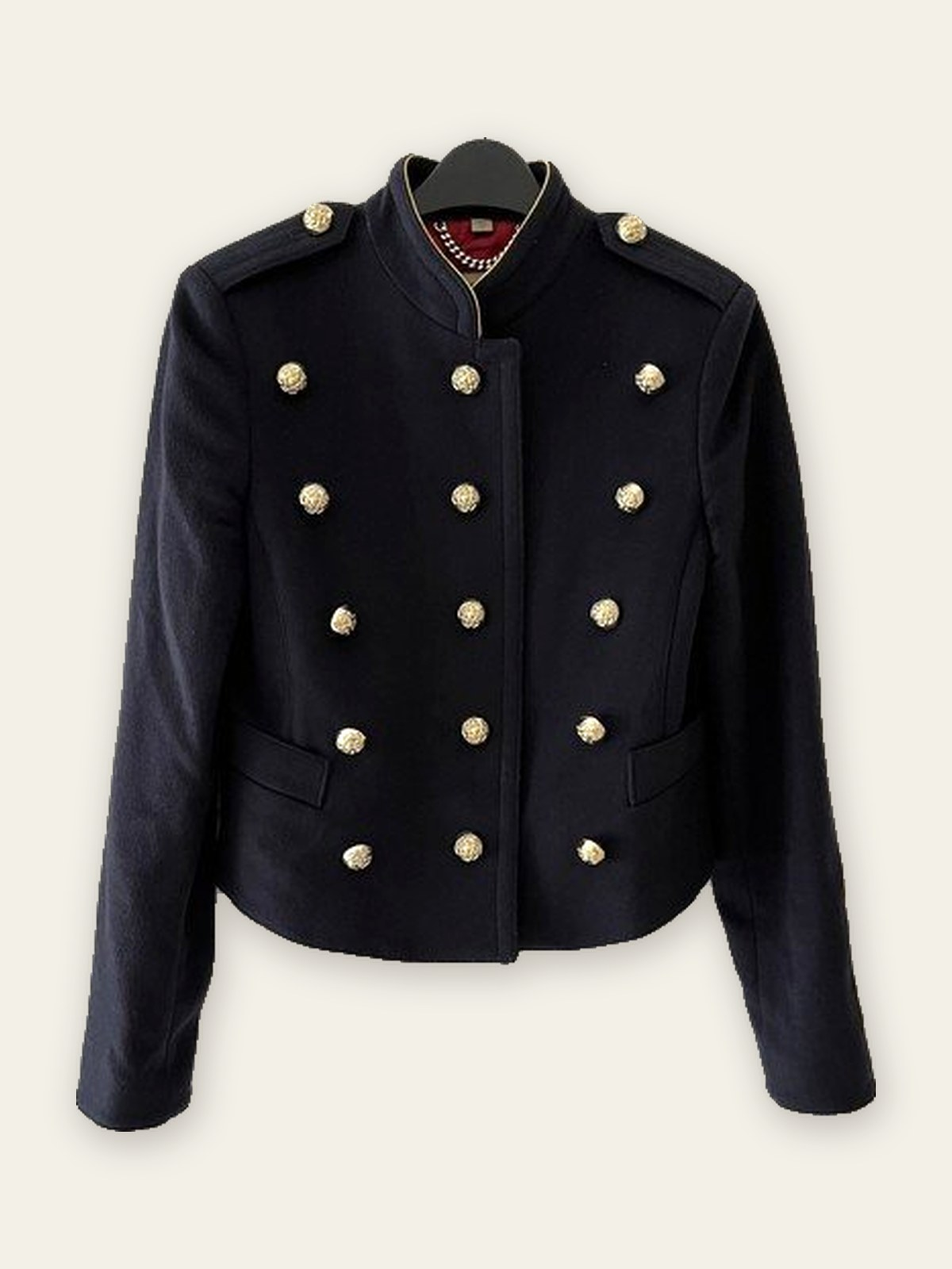
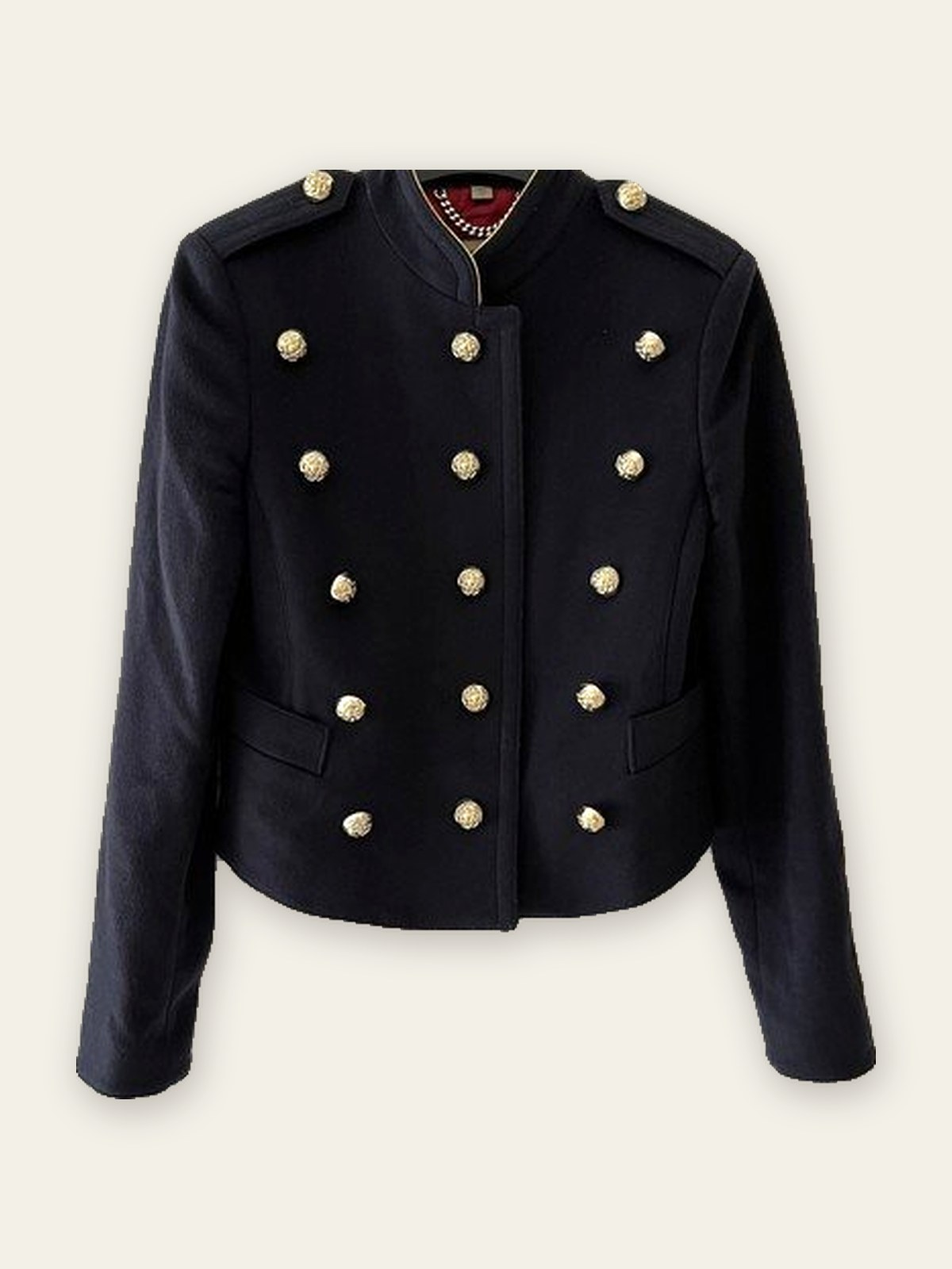
Chronicles as text lists, three essays retitled, hanger hooks removed
- Chronicle groups are now lists: title plus a deck naming the object,
  its origin and year, derived from the items that point to the article
- The three "副本" titles become 刺绣的两种权威 (c009), 当纹章换成商标
  (c012) and 二十五毫米的荣典 (c015); the group is labelled
  审美 · 工艺与挪用 and ordered c005, c002, c009, c012, c015
- The hanger hook above the shoulders is removed from r009, r012 and r014

Claude-Session: https://claude.ai/code/session_0146WwfpqSoST3wS5kAsYEcA

diff --git a/assets/data.js b/assets/data.js
@@ -44,26 +44,26 @@ const collection = {
   ],
   chronicles: [
     { id:"c005", group:"craft", title:"礼服的工艺制度剖析", image:"/images/regalia/r006_standard.jpg", image2:"/images/chronicles/c001b.jpg", image3:"/images/chronicles/c001c.jpg", image4:"/images/chronicles/c001d.jpg", imageLayout:"grid4", excerpt:"<strong>工艺</strong><br><br>这件1931年式法国陆军医官大礼服出自巴黎第八区Thorn。彼时该地区是法国军服定制业的核心门牌，客户以军官及外交官为主。面料为中厚挺括礼服毛呢，黑色，织物密度足以支撑直身廓形。单排9粒扣沿前襟垂直排列，扣面以黄铜镀金铸造，浮雕图案为权杖缠蛇外环月桂，赫尔墨斯权杖的医疗变体，每粒扣面均铸有兵种标识。<br><br>领部与袖口以深红丝绒包覆，切割边缘利落，与黑色毛呢的交界处收口无毛边。领片两侧各施一组金线手工刺绣：左侧橄榄枝，右侧蓟花，以管状金属丝构成，密度均匀，九十年后光泽与张力仍在。袖口丝绒之上，两道金色织带横贯，金线规整。内衬有多圈走线分散受力，是法国军服刺绣工艺的标准高输出。<br><br>整件礼服体现了法兰西制服美学的核心逻辑：以裁缝的精度代替装饰的堆砌，将布料、丝绒、金线与金属扣的材料层级压入严格的几何秩序，使礼服获得建筑与雕塑的同时感，它不是被穿着的，它是被构筑的。<br><br><strong>风格与制度含义</strong><br><br>黑色礼服毛呢配深红丝绒，是第三共和国时期法国军医系统礼服的标准配色。同期法国陆军礼服中，作战兵种多用双排扣，医官等技术兵种以单排扣与作战兵种的双排扣区隔。<br><br>9粒权杖缠蛇扣沿前襟从领口延伸至腰部。佩戴者站定，兵种、职级与机构归属即在视线接触中同时完成识别。" },
+    { id:"c002", group:"craft", title:"精品项链的设计逻辑", image:"/images/treasures/t001_standard.jpg", image2:"/images/chronicles/c002b.jpg", image3:"/images/chronicles/c002c_standard.jpg", image4:"/images/chronicles/c002d.jpg", imageLayout:"grid4", excerpt:"自上而下观赏这件 Florenza 项链。视线首先遇到的是巴洛克掐丝心形小吊坠：体量细小，却以立体爪托与涡卷细节预告了整串的主题和工艺密度。视线继续下移，花瓣形中心座以铸造掐丝构成对称的放射骨架，将四重构图秩序带入视野；马耳他十字主吊坠随即展开，以徽章形制确立整串的历史语义重心。圆形宝石与马眼形宝石分布于各节点，深琥珀色调回应了伊特鲁里亚复兴的色彩传统，在维持视觉密度的同时锁定了情绪基调。<br><br>这件项链的设计核心策略，是以历史权威性抵消材料的非贵重属性，同时采用两条手段：以数量与密度压制对材料本身的注意力，以历史风格引导观者关注设计而非材料本身。风格上，它是四套历史传统的有意识融合：文艺复兴风格复兴提供构图骨架，伊特鲁里亚复兴提供工艺语言，维多利亚情感传统引入浪漫向度，巴洛克复兴赋予戏剧张力，四套语汇各自承担不同的设计功能。<br><br>通过将心形处理为承载宝石的建筑构件而非独立的情感符号，庄严与浪漫两种原本相悖的气质在同一构图中取得平衡。铸造掐丝与模制玻璃石决定了工艺的上限，而在自身目标与工艺约束之内，此件以罕见的完成度实现了它的设计意图。" },
+    { id:"c009", group:"craft", title:"刺绣的两种权威", image:"/images/regalia/r009_standard.jpg", image2:"/images/chronicles/c009b.jpg", imageLayout:"side", excerpt:"<strong>工艺</strong><br><br>香槟色织物为底，表面覆盖逐粒手工缝缀的珍珠与水晶。<br><br>刺绣由两套语言交织：一套是菱形交叉网格，每个交点固定一颗仿珍珠或一粒爪镶水晶，密度恒定，形成视觉底层结构；一套是巴洛克涡卷，以珍珠簇与水晶带弯折出对称曲线，从领口向下展开，沿前襟与侧缘翻卷延伸。小珠构成连续曲线，大珠落在弧线顶端与转折处，充当视觉重音。前襟两道纵向镶边带是密度最高处，两套语言在此重叠。<br><br>数百粒珍珠与水晶，逐粒手工定位，是刺绣工坊的标准高输出方式。剪裁宽肩、收腰、直线下摆，长度过臀，丝绸全衬里。<br><br><strong>从制服到时装</strong><br><br>将这件巴尔曼与本收藏中的法国医官礼服并置，刺绣、廓形与构图几乎重合。区别在于：医官礼服上的金线编码军衔，扣面浮雕指明兵种，每种材料在制服条令中都有对应条目；巴尔曼外套上的珍珠和水晶不编码任何制度信息，只声明稀缺性和价格。相似视觉结构，两种完全不同的权威来源。<br><br>这并非巧合。巴尔曼品牌创始人在1945年战后开设工作室时，军装的结构化肩线和严整廓形直接进入了他的时装剪裁。此后，宽肩、收腰、密集刺绣始终是品牌基因的底层代码。<br><br>军礼服的视觉权威依附于穿着场合的制度约束，脱离典礼后，它只是一件做工复杂的衣服。高级时装找到的替代方案是价格、品牌叙事和秀场的媒体放大，把制度性的稀缺替换为市场性的稀缺。刺绣离开制服之后，等级的证明变成等级的消费。" },
+    { id:"c012", group:"craft", title:"当纹章换成商标", image:"/images/treasures/t023_standard.jpg", image2:"/images/chronicles/c012b_standard.jpg", image3:"/images/chronicles/c012c_standard.jpg", image4:"/images/chronicles/c012d_standard.jpg", imageLayout:"grid4", excerpt:"<strong>设计和工艺</strong><br><br>黄铜镀金。正面拱形纹章中，双头鹰与双C以浮雕铸出，十四道尖芒宽窄交替展开。背面遍布锤击纹，署香奈儿标记与年份。双头鹰取自香奈儿本人康朋街公寓镀金镜顶的俄罗斯帝国纹章，太阳放射形属1954年起发展的符号。1983年老佛爷入主首年，将这些品牌档案重铸为新配饰。<br><br><strong>国家勋章与时尚项链</strong><br><br>将这件香奈儿勋章项链与本收藏中的颈佩国家勋章并置。勋章各有不同珐琅、金属与铭文，但结构一致：从中心向外辐射的星芒，承载核心信息的圆形区域，颈部佩戴。然后是这条项链：镀金太阳放射形，中心双头鹰与双C标志。同样的几何秩序，但中心的国家纹章换成了商业标志。<br><br><strong>同一技术，两套委托</strong><br><br>制作此件的香奈儿巴黎工坊与制作本收藏中勋章工坊Arthus Bertrand共享法国金匠行会技艺。区别在于基体与去向：Arthus Bertrand以银施珐琅，成品进入国家授勋登记；香奈儿工坊以黄铜覆金，成品进入商业流通。<br><br>勋章的权威是排他性的：它声明佩戴者通过了国家筛选。时装珠宝的信号是包容性的：付款即可拥有。在二级市场上，镀金黄铜的仿制勋章与银质珐琅的真品勋章处于相近的价格区间。当虚构的勋章与真实的勋章同价，制度权威与商业权威之间的力量对比就已经发生了位移。" },
+    { id:"c015", group:"craft", title:"二十五毫米的荣典", image:"/images/treasures/t027_standard.jpg", image2:"/images/chronicles/c015b.jpg", image3:"/images/chronicles/c015c.jpg", image4:"/images/chronicles/c015d.jpg", imageLayout:"grid4", excerpt:"<strong>装配</strong><br><br>装配遵循资历：巴斯勋章创于1725年，居佩戴者右侧；不列颠帝国勋章创于1917年、1937年前为第I型，居其左。绶带纯紫无中央红条，声明文职级。横条背面冲印：Spink & Son Ld，17 & 18 Piccadilly，London. W.。此店1927年前后迁离皮卡迪利，十字章背面的乔治五世花押把年代收在1917至1927年间。<br><br><strong>二十五毫米上的完整</strong><br><br>卵形章高25毫米。「三合为一」三段拉丁铭文完整可读，三顶王冠珠饰粒粒分明，玫瑰、蓟与三叶草自一茎而出。十字章同高，淡蓝珐琅下压着羽状机刻底纹，中心不列颠尼亚持三叉戟坐于盾侧，外环「为上帝与帝国」清晰环绕。珐琅指示其等级为指挥官级或以上。俱未作简化，缩小的只有尺度。<br><br><strong>两种副本</strong><br><br>与本藏中的香奈儿勋章项链并置。那件保留了勋章的几何：放射尖芒、中心圆牌、颈部佩戴；圆心的国家纹章换成商业标志。它留下形式，舍去内容。<br><br>这对微缩勋章相反：铭文、纹样、底纹、背面花押，一项不减。在时尚复制勋章之前，制度已经订制了自己的缩小版。<br><br>烛光下的餐桌上，无人会俯身核对绶带有无红条，或辨读环上的拉丁文。这些细节服务于合规，而制度是唯一有资格审读它的观众。<br><br>时尚的副本被造出来，是为了被看见而不必被读懂。国家的副本被造出来，是为了被读懂而不必被看见。" },
     { id:"c003", group:"person", title:"礼服的战争与和平", image:"/images/regalia/r001_standard.jpg", image2:"/images/chronicles/c003b.jpg", image3:"/images/chronicles/c003c.jpg", image4:"/images/chronicles/c003d.jpg", imageLayout:"grid4", excerpt:"1982年5月4日，南大西洋，马岛战争进行中。谢菲尔德号驱逐舰被阿根廷超军旗战机的飞鱼导弹击中右舷，起火后浓烟灌满全舰，舰长索尔特下令弃舰，二十名船员罹难。六日后，舰体在拖往南乔治亚岛途中于大浪中沉没，是二战结束后第一艘被击沉的皇家海军战舰。<br><br>索尔特全名James Frederick Thomas George，1940年4月生。六个月后，其父索尔特少校随潜艇特里亚德号在塔兰托湾失踪，姓名刻于朴茨茅斯海军纪念碑。索尔特后来自愿投入这一使父亲丧命的兵种，历任芬鲸号艇长、北极星核潜艇决心号副长、核潜艇无畏号艇长；谢菲尔德号是他重返水面舰队后的指挥。<br><br>1982年6月1日，索尔特在朴茨茅斯的Moseley &amp; Pounsford定制了这件礼服外套。距沉舰不足三周，距阿根廷投降尚有两周，战争仍在进行。时间耐人寻味：议会与媒体的追责正在展开。这件礼服因此难以不与问责程序和身份修复相联；至少在象征层面，它是一名指挥官在舆论漩涡中重新确立自身位置的努力。<br><br>宽容随后到来。1982年7月，调查委员会向舰队总司令菲尔德豪斯上将报告，认定两名军官存在初步过失。菲尔德豪斯决定不付军法审判，据伍德沃德记述，理由是避免在举国欢腾中「造成不良的舆论气氛」。报告长期封存：2006年公开的摘要删去全部关键结论，完整文本直到2017年才解密。<br><br>索尔特未被追责。他随即出任另一艘42型驱逐舰南安普顿号舰长，1984年任北伍德舰队司令部作战助理参谋长，1986至1987年掌国防情报，晋升海军少将，1988至1990年在皇家国防研究学院，1990至1991年任助理海军参谋长，统筹海湾战争的皇家海军行动，1991年获巴斯勋位。退役后经商，2009年12月3日去世，享年六十九岁。<br><br>这件外套因此是一个问题的物质载体：荣耀在挫败之后，如何通过自身努力和制度宽容重新组织。" },
     { id:"c014", group:"person", title:"礼服的三十分钟", image:"/images/regalia/r004_standard.jpg", image2:"/images/chronicles/c014b.jpg", image3:"/images/chronicles/c014c.jpg", image4:"/images/chronicles/c014d.jpg", imageLayout:"grid4", excerpt:"1944年6月6日零时十八分，诺曼底贝努维尔。第三架霍萨滑翔机撞入运河与奥恩河之间的沼泽地，机身折断。机上载有第14排排长桑迪·史密斯中尉、二十八名士兵，以及此次突击行动唯一的随行军医、皇家陆军医疗军团上尉沃恩。沃恩被着陆撞击抛落在机头前方十五码处的泥地。他昏迷了约三十分钟。<br><br>桥在这三十分钟里被夺下。第25排排长布拉泽里奇颈部中弹，成为诺曼底登陆日死于敌火的第一名盟军士兵。沃恩苏醒后被带到他身边，只看了一眼便知无能为力。此后他在贡德雷咖啡馆设立救护所，以餐桌为手术台。<br><br>1965年，Alkit为沃恩少校定制了这件礼服。距那三十分钟已二十一年，衔级已由上尉而少校。1983年，历史学家斯蒂芬·安布罗斯为他录下两卷口述史，共三十五分钟，其中一节记述着陆后恢复意识的经过。1988年他出版回忆录，2000年2月去世。<br><br>这件礼服因此承载的是荣耀发生时的缺席：一名军医在他唯一被需要的半小时里躺在泥里。此后的军旅生涯，包括这件少校礼服所标记的衔级，都是在那半小时之后重新组织起来的。" },
+    { id:"c016", group:"person", title:"翻领上的礼序", image:"/images/treasures/t028_standard.jpg", image2:"/images/chronicles/c016b.jpg", image3:"/images/chronicles/c016c.jpg", image4:"/images/chronicles/c016d.jpg", imageLayout:"grid4", excerpt:"<strong>形制</strong><br><br>三股狐尾细链，两端各缀别针，其下悬五枚微缩章，不系绶带。8.0×3.5厘米，9.9克。<br><br>自左而右。学术棕榈为1955年前式样，两枝叶枝交叉成开口花环，茎上施紫珐琅，叶间以银托镶玫瑰切钻，间以红紫色小石；吊环两侧与正中亦各镶一钻。农业功绩勋章为金质，白珐琅六角星外绕金色叶环，中心为共和国侧像，蓝珐琅环铭「法兰西共和国」，背面铭「农业功绩 1883」。互助会奖章为银质，正面浮雕长袍女子与男子执手，署Roty；背面铭「劳动与社会保障部」，边缘打巴黎造币厂丰饶角与「1 ARGENT」。突尼斯荣耀勋章以切面银芒为底，红绿珐琅星芒相间，中心绿地托贝伊花押，上接镶石花结。末端为柬埔寨莫尼萨拉蓬勋章，镂空叶环环抱高脚杯与书卷，顶上无冠。<br><br>劳动与社会保障部1906年设立，此链的组成不早于此。五枚合乎佩戴礼序：本国勋章在前，本国奖章居中，外国勋章殿后。<br><br><strong>本国荣典</strong><br><br>第三共和国不再册封爵位。荣誉军团之外，各部另设荣典：教育有学术棕榈，农业有功绩勋章，互助会有奖章。<br><br><strong>借来的君主</strong><br><br>后两枚出自君主。突尼斯荣耀勋章由贝伊颁授，法国人的提名则出自法国总驻扎官。莫尼萨拉蓬1905年由柬埔寨国王西索瓦敕令设立，形制与学术棕榈极为接近，法国军官与在柬教师亦在受者之列。1896年，共和国将五种保护国勋章收为法国殖民勋章，此二者不在其列，始终是外国勋章。以功绩取代血统的共和国，在保护国仍借君主之名授予功绩。" },
     { id:"c010", group:"person", title:"晚宴礼服中的集体等级", image:"/images/regalia/r016.jpg",excerpt:"<strong>制度背景</strong><br><br>梅斯礼服源自十九世纪骑兵的短身厩衣。1845年前后，英国军官开始在晚宴中穿着齐腰短外套；1883年与1891年着装条令将其确立为专供军官晚宴的着装序列。下摆止于腰际，落座时不被压皱，也让马甲、衬衫与勋章完整显露。<br><br>梅斯礼服把袖环、领色与纹章压缩进一件短外套。它由军官自费向裁缝定制，不由军需发放，因此内标往往留有行号、年份与姓名。这批藏品之所以能追溯到具体的人，正源于这一制度安排。<br><br><strong>三件藏品、三段故事</strong><br><br>皇家海军少校（1945）。海军全套深蓝，只让袖环说话：一道窄环加一道卷环，少校。二战期间正式晚间着装暂停，1945年12月的这次定制，意味着穿着者从战争回到了需要晚宴与祝酒的世界。<br><br>皇家空军上校全套（1956）。空军1918年建军时借用海军的袖环体系，但不采卷环，1920年定下自己的蓝灰色。四道金环横贯袖口，明确为上校。全体军官统一色调，比陆军的兵种配色更为低调。马甲与腰封通常择一佩戴，此件两者俱在。<br><br>皇家炮兵少校（1992）。黑外套配猩红翻领与猩红马甲，猩红为炮兵标志色。炮兵军官在餐桌上另有一项特权：本团慢步进行曲奏响时不起立，因为火炮本身即为军旗。<br><br><strong>并肩聚集</strong><br><br>三件并置，可见同一形制在军种之间的变体逻辑。陆军单排扣敞开，各兵种以领色相区隔，等级写在肩章上；海军与空军各自统一颜色，对扣封闭，以袖环数目表示等级。<br><br>而餐桌另有一套规矩：席间不谈公务、政治与宗教。等级由布料一次说尽，随后便退出谈话。三位军官在同一场晚宴入座，十秒内即可辨识彼此的兵种、军衔与服役年限，此后整晚不必再提。等级与平等因此同时在场。" },
-    { id:"c009", group:"craft", title:"华服的时尚副本", image:"/images/regalia/r009_standard.jpg", image2:"/images/chronicles/c009b.jpg", imageLayout:"side", excerpt:"<strong>工艺</strong><br><br>香槟色织物为底，表面覆盖逐粒手工缝缀的珍珠与水晶。<br><br>刺绣由两套语言交织：一套是菱形交叉网格，每个交点固定一颗仿珍珠或一粒爪镶水晶，密度恒定，形成视觉底层结构；一套是巴洛克涡卷，以珍珠簇与水晶带弯折出对称曲线，从领口向下展开，沿前襟与侧缘翻卷延伸。小珠构成连续曲线，大珠落在弧线顶端与转折处，充当视觉重音。前襟两道纵向镶边带是密度最高处，两套语言在此重叠。<br><br>数百粒珍珠与水晶，逐粒手工定位，是刺绣工坊的标准高输出方式。剪裁宽肩、收腰、直线下摆，长度过臀，丝绸全衬里。<br><br><strong>从制服到时装</strong><br><br>将这件巴尔曼与本收藏中的法国医官礼服并置，刺绣、廓形与构图几乎重合。区别在于：医官礼服上的金线编码军衔，扣面浮雕指明兵种，每种材料在制服条令中都有对应条目；巴尔曼外套上的珍珠和水晶不编码任何制度信息，只声明稀缺性和价格。相似视觉结构，两种完全不同的权威来源。<br><br>这并非巧合。巴尔曼品牌创始人在1945年战后开设工作室时，军装的结构化肩线和严整廓形直接进入了他的时装剪裁。此后，宽肩、收腰、密集刺绣始终是品牌基因的底层代码。<br><br>军礼服的视觉权威依附于穿着场合的制度约束，脱离典礼后，它只是一件做工复杂的衣服。高级时装找到的替代方案是价格、品牌叙事和秀场的媒体放大，把制度性的稀缺替换为市场性的稀缺。刺绣离开制服之后，等级的证明变成等级的消费。" },
+    { id:"c008", group:"person", title:"孤立总统的外交签名", image:"/images/treasures/t016_standard.jpg", image2:"/images/chronicles/c008b.jpg", image3:"/images/chronicles/c008c.jpg", image4:"/images/chronicles/c008d.jpg", imageLayout:"grid4", excerpt:"1989年7月，奥地利递交了加入欧洲共同体的申请。七个月后，1990年2月8日，奥地利总统瓦尔德海姆正要签署证书，将荣誉功勋大金质勋章授予欧共体委员会礼宾司长布拉蒂尼。布拉蒂尼入职欧洲共同体已逾三十年，掌管欧委会高层礼仪事务。<br><br>此时，欧委会正在审议奥地利的入盟申请。签署证书的总统正处于外交孤立之中。瓦尔德海姆1986年当选后，二战德国军旅经历曝光。六年任期，西欧各国拒绝接待。授勋不需亲赴，证书从维也纳发出即可。这是孤立总统手中为数不多的外交工具。与此同时，柏林墙已倒塌，冷战中立国身份即将过时，入欧成为唯一通道。向布拉蒂尼授勋，即向布鲁塞尔释放信号：维也纳正在敲门。<br><br>一经签字，勋章将代替总统出场。这枚颈佩章主体为八尖马耳他十字，红色珐琅覆面，金缘勾线，上叠白色珐琅等臂十字，红白双层取奥地利国旗配色。顶部颗粒纹横梁接悬挂环，下悬共和国单头鹰，九枚珐琅州徽沿马蹄形弧线自左上逆时针展开，依次为布尔根兰、下奥地利、萨尔茨堡、蒂罗尔、维也纳（中轴线）、福拉尔贝格、施泰尔马克、上奥地利、克恩顿，细密各异。整体套件含红色礼盒、缎带蝴蝶结、迷你襟针及原始证书。奥地利荣誉体系第六级（共十四级），对应一等指挥官。<br><br>于是，瓦尔德海姆在授勋证书上签字。" },
     { id:"c011", group:"power", title:"功绩的十次改面", image:"/images/treasures/t021_standard.jpg", image2:"/images/chronicles/c011b.jpg", image3:"/images/chronicles/c011c.jpg", image4:"/images/chronicles/c011d.jpg", image5:"/images/chronicles/c011e.jpg", image6:"/images/chronicles/c011f.jpg", imageLayout:"grid6", excerpt:"<strong>本例工艺</strong><br><br>这是一枚珠宝商制作的指挥官级颈章，下方菱形匠记或指向巴黎的Adrien Chobillon工坊，做工远在官方量产版之上。观者先看见的是光：五枚白珐琅星臂饱满起伏，边缘一道细金线把轮廓收紧，臂尖以小球轻轻顿住。星臂之间，月桂与橡叶的半透明绿珐琅压在机刻底纹上，转动时叶脉透光，近乎宝石，几点红珐琅果粒落在其间。顶端的叶冠立体镂空而可摆动。<br><br>正反两面的金质中心各自独立嵌装：正面浮雕共和国的拟人形象，外环蓝珐琅「法兰西共和国」；背面呈现交叉三色国旗，外环「荣誉与祖国」。它把国家荣典的庄严，落成了一件可佩戴、可端详的权力珠宝。这一勋章曾几经演化。<br><br><strong>十次改面</strong><br><br>它的中心圆章不到两厘米，两百年间却承接过十张面孔。<br><br>1802年第一帝国时期，正面铸拿破仑侧面像，背面铸帝国鹰。1814年法兰西王国复辟，拿破仑的面孔换为亨利四世，背面的鹰与顶部的冠随之改为鸢尾花与王冠。1830年保留亨利四世，鸢尾花换为三色旗。1848年第二共和国换上「第一执政波拿巴」，铭文改回「法兰西共和国」；1851年政变建立第二帝国后，拿破仑三世又恢复拿破仑全套图像。<br><br>1870年战败，第三共和国以共和国化身取代真实统治者，新增「1870」与定型的橡树－月桂叶冠。<br><br>1951年法令取消「1870」；1962年又在背面增补创设日期「共和十年花月廿九日」。本收藏所藏的这一枚，正落在1951-1962年间。<br><br><strong>未改之物</strong><br><br>十次改面之下，以功绩取代血统的前提，比创设它的每一个政权都更持久。" },
-    { id:"c006", group:"power", title:"帝国的勋章符号", image:"/images/treasures/t014_standard.jpg", image2:"/images/chronicles/c006b.jpg", image3:"/images/chronicles/c006c.jpg", image4:"/images/chronicles/c006e.jpg", image5:"/images/chronicles/c006d.jpg", image6:"/images/chronicles/c006f.jpg", imageLayout:"grid6",excerpt:"<strong>勋章细节</strong><br><br>顶部为绿色珐琅月桂枝，连接颈部绶带。主体为红色珐琅四臂十字，底覆机刻人字纹，层次分明；十字八端以球形收束，边缘钻石切面折射光彩。马耳他十字形制指向天主教骑士团传统。十字臂之间铺陈多层放射星芒，银镀金表面因长期氧化呈现蓝紫至铜红的虹彩光谱。星芒密集反光，使勋章在礼仪场合中远距离可辨。<br><br>中心圆章为双面结构。正面手绘珐琅以海格力斯之柱与环球为核心图像：海格力斯之柱源自西班牙王室徽章，指向直布罗陀海峡作为古典世界边界，两柱间飘带铭文「海外犹有天地」；环球将这一边界扩展至全球尺度，对应西班牙帝国的扩张理念；背面为蓝白珐琅底上的FS花押。两面铭文合计意为「以伊莎贝拉之名，致经淬炼的忠诚」。<br><br>原盒标明制造商 Celada 的地址马德里Mayor 21，红色压纹外壳、红丝绒内衬、锁扣保存完好。Celada 创立于1896年，珐琅顶部王冠形制属波旁复辟时期式样（至1931年共和国废除），因此勋章年代为1896-1931年。<br><br><strong>制度含义</strong><br><br>该勋章设立于1815年，正当拿破仑战争后王室复辟、欧洲秩序重组，其功能集中于奖励对西班牙国家、王室及对外关系有贡献的个人，尤其涉及外交、文化、艺术事务。这件物件结合宗教合法性、帝国扩张与外交秩序，佩戴者由此在公共场合代表国家与王室的权威。" },
     { id:"c007", group:"power", title:"荣誉语法的双重编码", image:"/images/treasures/t015_standard.jpg", image2:"/images/chronicles/c007b.jpg", image3:"/images/chronicles/c007d.jpg", image4:"/images/chronicles/c007c.jpg", imageLayout:"grid4", excerpt:"<strong>形制</strong><br><br>顶部为花结式银质连接件，结绶母题自启蒙时代法国宫廷首饰入于伊斯兰勋饰。上承悬环以系颈绶，下接横向铰接与主体，其上打有巴黎著名工坊 Arthus-Bertrand 的标记。主体作十枝放射星形，红、绿珐琅星芒交替展开，叠置于银质切面光芒之上，表面满饰连续颗粒与刻纹，移动之间自有闪烁。中心圆章以绿色珐琅为地，凸出突尼斯贝伊的阿拉伯文花体签名，外绕一圈凸起珠饰，动势遂由边缘回聚于轴心。背面为光素银地，中央拱起托构，可见中心系独立成件的立体组装。银面呈灰黑、蓝紫、褐金交错的氧化虹彩。<br><br><strong>断代与来源</strong><br><br>根据中心伊斯兰书法判读，年代为Muhammad VIII al-Amin统治期间，即1943–1957年。带Arthus Bertrand原盒和原绶带。此件由一个法国家庭连同数件勋饰送交拍卖，暗示受勋者是一名跨区域任职的法国军官或殖民行政官员。<br><br><strong>双重编码</strong><br><br>这枚勋章的中心花押声明权威来自突尼斯贝伊本人；而悬挂环上的冲印是巴黎银匠的工坊标记。<br><br>勋章是制度的缩影。1881年后，突尼斯贝伊名义上保留主权与勋章授予权，而实际提名权由法国驻扎官员掌控，制造由承接法国荣誉军团勋章的工坊完成。佩戴者由此同时登记两套忠诚：在突尼斯贝伊的荣誉等级中获得一个位置，也在法国殖民礼仪秩序中获得一个可换算的等级坐标。正面花押与背面戳记，分别书写一半权力编码。" },
     { id:"c013", group:"power", title:"未竟主权的清冷表达", image:"/images/treasures/t026_standard.jpg", image2:"/images/chronicles/c013b.jpg", image3:"/images/chronicles/c013c.jpg", image4:"/images/chronicles/c013d.jpg", image5:"/images/chronicles/c013e.jpg", image6:"/images/chronicles/c013f_standard.jpg", imageLayout:"grid6",excerpt:"<strong>形制</strong><br><br>勋章以十角银星为体，臂间切出锐利银镀金星芒，中央亮四周暗，移动时碎光频闪。其上叠一枚白珐琅五臂星，中心金牌覆蓝珐琅书法，铭「尼罗河惠予埃及者，乃其繁荣与幸福之本源」。顶承一枚小巧的鎏金埃及王冠，象征王权实体、至高主权、寰宇统治，衔接蓝底黄边颈绶。此级此章，亦多颁予在埃及任职的英国官员。背面中心片含Lattes厂标，背面下侧三个标记中依次表示开罗产地、800银（坐猫银戳）、年号「D」（1928–29）。通体以白、银、金与一点蓝立骨，基调冷峭。深蓝原盒外铭王冠、王室花押与「二等」数字，内衬署阿拉伯文「供货于至尊国王陛下暨埃及政府」，出自开罗宫廷供货商J. Lattes：一家坐镇开罗、又向欧洲伸出一足的世界主义工坊。<br><br><strong>未竟的主权</strong><br><br>与本藏中的突尼斯荣耀勋章并置：突尼斯的勋章铸于宗主国巴黎、再颁于北非，埃及的却留在开罗成形，形制审美仍一并面向欧洲。这种清冷优雅，恍若英国圣米迦勒及圣乔治勋章，中心却各说各话：一个是基督教圣徒，一个是尼罗河的伊斯兰书法。1922年埃及名义独立、英国仍握实权；这枚勋章遂以一套彻底欧化的形式，替一个尚未完整的主权发声。它见证的是埃及现代化的一场表演：开罗制造的勋章，用欧洲的语法，讲述半真宣言。" },
-    { id:"c008", group:"person", title:"孤立总统的外交签名", image:"/images/treasures/t016_standard.jpg", image2:"/images/chronicles/c008b.jpg", image3:"/images/chronicles/c008c.jpg", image4:"/images/chronicles/c008d.jpg", imageLayout:"grid4", excerpt:"1989年7月，奥地利递交了加入欧洲共同体的申请。七个月后，1990年2月8日，奥地利总统瓦尔德海姆正要签署证书，将荣誉功勋大金质勋章授予欧共体委员会礼宾司长布拉蒂尼。布拉蒂尼入职欧洲共同体已逾三十年，掌管欧委会高层礼仪事务。<br><br>此时，欧委会正在审议奥地利的入盟申请。签署证书的总统正处于外交孤立之中。瓦尔德海姆1986年当选后，二战德国军旅经历曝光。六年任期，西欧各国拒绝接待。授勋不需亲赴，证书从维也纳发出即可。这是孤立总统手中为数不多的外交工具。与此同时，柏林墙已倒塌，冷战中立国身份即将过时，入欧成为唯一通道。向布拉蒂尼授勋，即向布鲁塞尔释放信号：维也纳正在敲门。<br><br>一经签字，勋章将代替总统出场。这枚颈佩章主体为八尖马耳他十字，红色珐琅覆面，金缘勾线，上叠白色珐琅等臂十字，红白双层取奥地利国旗配色。顶部颗粒纹横梁接悬挂环，下悬共和国单头鹰，九枚珐琅州徽沿马蹄形弧线自左上逆时针展开，依次为布尔根兰、下奥地利、萨尔茨堡、蒂罗尔、维也纳（中轴线）、福拉尔贝格、施泰尔马克、上奥地利、克恩顿，细密各异。整体套件含红色礼盒、缎带蝴蝶结、迷你襟针及原始证书。奥地利荣誉体系第六级（共十四级），对应一等指挥官。<br><br>于是，瓦尔德海姆在授勋证书上签字。" },
-    { id:"c012", group:"craft", title:"勋章的时尚副本", image:"/images/treasures/t023_standard.jpg", image2:"/images/chronicles/c012b_standard.jpg", image3:"/images/chronicles/c012c_standard.jpg", image4:"/images/chronicles/c012d_standard.jpg", imageLayout:"grid4", excerpt:"<strong>设计和工艺</strong><br><br>黄铜镀金。正面拱形纹章中，双头鹰与双C以浮雕铸出，十四道尖芒宽窄交替展开。背面遍布锤击纹，署香奈儿标记与年份。双头鹰取自香奈儿本人康朋街公寓镀金镜顶的俄罗斯帝国纹章，太阳放射形属1954年起发展的符号。1983年老佛爷入主首年，将这些品牌档案重铸为新配饰。<br><br><strong>国家勋章与时尚项链</strong><br><br>将这件香奈儿勋章项链与本收藏中的颈佩国家勋章并置。勋章各有不同珐琅、金属与铭文，但结构一致：从中心向外辐射的星芒，承载核心信息的圆形区域，颈部佩戴。然后是这条项链：镀金太阳放射形，中心双头鹰与双C标志。同样的几何秩序，但中心的国家纹章换成了商业标志。<br><br><strong>同一技术，两套委托</strong><br><br>制作此件的香奈儿巴黎工坊与制作本收藏中勋章工坊Arthus Bertrand共享法国金匠行会技艺。区别在于基体与去向：Arthus Bertrand以银施珐琅，成品进入国家授勋登记；香奈儿工坊以黄铜覆金，成品进入商业流通。<br><br>勋章的权威是排他性的：它声明佩戴者通过了国家筛选。时装珠宝的信号是包容性的：付款即可拥有。在二级市场上，镀金黄铜的仿制勋章与银质珐琅的真品勋章处于相近的价格区间。当虚构的勋章与真实的勋章同价，制度权威与商业权威之间的力量对比就已经发生了位移。" },
-    { id:"c015", group:"craft", title:"荣典的礼服副本", image:"/images/treasures/t027_standard.jpg", image2:"/images/chronicles/c015b.jpg", image3:"/images/chronicles/c015c.jpg", image4:"/images/chronicles/c015d.jpg", imageLayout:"grid4", excerpt:"<strong>装配</strong><br><br>装配遵循资历：巴斯勋章创于1725年，居佩戴者右侧；不列颠帝国勋章创于1917年、1937年前为第I型，居其左。绶带纯紫无中央红条，声明文职级。横条背面冲印：Spink & Son Ld，17 & 18 Piccadilly，London. W.。此店1927年前后迁离皮卡迪利，十字章背面的乔治五世花押把年代收在1917至1927年间。<br><br><strong>二十五毫米上的完整</strong><br><br>卵形章高25毫米。「三合为一」三段拉丁铭文完整可读，三顶王冠珠饰粒粒分明，玫瑰、蓟与三叶草自一茎而出。十字章同高，淡蓝珐琅下压着羽状机刻底纹，中心不列颠尼亚持三叉戟坐于盾侧，外环「为上帝与帝国」清晰环绕。珐琅指示其等级为指挥官级或以上。俱未作简化，缩小的只有尺度。<br><br><strong>两种副本</strong><br><br>与本藏中的香奈儿勋章项链并置。那件保留了勋章的几何：放射尖芒、中心圆牌、颈部佩戴；圆心的国家纹章换成商业标志。它留下形式，舍去内容。<br><br>这对微缩勋章相反：铭文、纹样、底纹、背面花押，一项不减。在时尚复制勋章之前，制度已经订制了自己的缩小版。<br><br>烛光下的餐桌上，无人会俯身核对绶带有无红条，或辨读环上的拉丁文。这些细节服务于合规，而制度是唯一有资格审读它的观众。<br><br>时尚的副本被造出来，是为了被看见而不必被读懂。国家的副本被造出来，是为了被读懂而不必被看见。" },
-    { id:"c016", group:"person", title:"翻领上的礼序", image:"/images/treasures/t028_standard.jpg", image2:"/images/chronicles/c016b.jpg", image3:"/images/chronicles/c016c.jpg", image4:"/images/chronicles/c016d.jpg", imageLayout:"grid4", excerpt:"<strong>形制</strong><br><br>三股狐尾细链，两端各缀别针，其下悬五枚微缩章，不系绶带。8.0×3.5厘米，9.9克。<br><br>自左而右。学术棕榈为1955年前式样，两枝叶枝交叉成开口花环，茎上施紫珐琅，叶间以银托镶玫瑰切钻，间以红紫色小石；吊环两侧与正中亦各镶一钻。农业功绩勋章为金质，白珐琅六角星外绕金色叶环，中心为共和国侧像，蓝珐琅环铭「法兰西共和国」，背面铭「农业功绩 1883」。互助会奖章为银质，正面浮雕长袍女子与男子执手，署Roty；背面铭「劳动与社会保障部」，边缘打巴黎造币厂丰饶角与「1 ARGENT」。突尼斯荣耀勋章以切面银芒为底，红绿珐琅星芒相间，中心绿地托贝伊花押，上接镶石花结。末端为柬埔寨莫尼萨拉蓬勋章，镂空叶环环抱高脚杯与书卷，顶上无冠。<br><br>劳动与社会保障部1906年设立，此链的组成不早于此。五枚合乎佩戴礼序：本国勋章在前，本国奖章居中，外国勋章殿后。<br><br><strong>本国荣典</strong><br><br>第三共和国不再册封爵位。荣誉军团之外，各部另设荣典：教育有学术棕榈，农业有功绩勋章，互助会有奖章。<br><br><strong>借来的君主</strong><br><br>后两枚出自君主。突尼斯荣耀勋章由贝伊颁授，法国人的提名则出自法国总驻扎官。莫尼萨拉蓬1905年由柬埔寨国王西索瓦敕令设立，形制与学术棕榈极为接近，法国军官与在柬教师亦在受者之列。1896年，共和国将五种保护国勋章收为法国殖民勋章，此二者不在其列，始终是外国勋章。以功绩取代血统的共和国，在保护国仍借君主之名授予功绩。" },
+    { id:"c006", group:"power", title:"帝国的勋章符号", image:"/images/treasures/t014_standard.jpg", image2:"/images/chronicles/c006b.jpg", image3:"/images/chronicles/c006c.jpg", image4:"/images/chronicles/c006e.jpg", image5:"/images/chronicles/c006d.jpg", image6:"/images/chronicles/c006f.jpg", imageLayout:"grid6",excerpt:"<strong>勋章细节</strong><br><br>顶部为绿色珐琅月桂枝，连接颈部绶带。主体为红色珐琅四臂十字，底覆机刻人字纹，层次分明；十字八端以球形收束，边缘钻石切面折射光彩。马耳他十字形制指向天主教骑士团传统。十字臂之间铺陈多层放射星芒，银镀金表面因长期氧化呈现蓝紫至铜红的虹彩光谱。星芒密集反光，使勋章在礼仪场合中远距离可辨。<br><br>中心圆章为双面结构。正面手绘珐琅以海格力斯之柱与环球为核心图像：海格力斯之柱源自西班牙王室徽章，指向直布罗陀海峡作为古典世界边界，两柱间飘带铭文「海外犹有天地」；环球将这一边界扩展至全球尺度，对应西班牙帝国的扩张理念；背面为蓝白珐琅底上的FS花押。两面铭文合计意为「以伊莎贝拉之名，致经淬炼的忠诚」。<br><br>原盒标明制造商 Celada 的地址马德里Mayor 21，红色压纹外壳、红丝绒内衬、锁扣保存完好。Celada 创立于1896年，珐琅顶部王冠形制属波旁复辟时期式样（至1931年共和国废除），因此勋章年代为1896-1931年。<br><br><strong>制度含义</strong><br><br>该勋章设立于1815年，正当拿破仑战争后王室复辟、欧洲秩序重组，其功能集中于奖励对西班牙国家、王室及对外关系有贡献的个人，尤其涉及外交、文化、艺术事务。这件物件结合宗教合法性、帝国扩张与外交秩序，佩戴者由此在公共场合代表国家与王室的权威。" },
     { id:"c004", group:"power", title:"两枚面孔，两个拿破仑", image:"/images/treasures/t002_standard.jpg", image2:"/images/chronicles/c004b_standard.jpg", imageLayout:"side", excerpt:"<strong>正面：侧面像的政治学</strong><br><br>圣赫勒拿奖章正面，拿破仑一世以罗马皇帝的姿态出现：严格的侧面像，月桂花环加冕，头衔环绕。这套视觉语言有明确的历史来源。古罗马硬币以侧面像确认皇帝的神圣权威，启蒙时代的共和主义者用同样的图式重新激活了这一传统：自由女神、革命烈士、执政官，都以侧面像的形式在金属上留存。拿破仑继承了这套语言，将军事胜利与古典共和的正当性焊接在一起：我不是国王，我是凯撒。<br><br><strong>背面：一个假托的遗言</strong><br><br>背面铭文宣告：献给拿破仑的荣耀战友，他最后的思念。圣赫勒拿，1821年5月5日。外圈镌刻的是服役年限：1792至1815年诸战役。顶部是帝国皇冠。<br><br><strong>整体意图</strong><br><br>这套设计的意图是：拿破仑死于流放地，死前记挂的是他的士兵；三十六年后，他的继承者把这份&ldquo;最后的思念&rdquo;铸成金属，发到仍然在世的老兵手中。他们彼时已白发苍苍，在波旁王朝复辟后一度被历史遗忘。这枚奖章告诉他们：你们被当时和现在的拿破仑记得。<br><br>幕后的操盘者是拿破仑三世。他以拿破仑姓氏当选总统、政变称帝。1857年颁布圣赫勒拿奖章，时机算计精准：传说已发酵为神话，老兵正在凋零，此时给予承认，代价极小，收益极大。<br><br>与拿破仑一世相比，拿破仑三世并未重新创造传奇，而是在传奇已经沉淀为公共记忆之后，对其进行了一次精算过的再动员。但那些年迈的老兵，当他们接过这枚奖章时，触碰的仍是多年前真实流过的血与泥。宣传技术与真实情感在这枚奖章上重叠，这正是它作为历史物件最难被单一叙事收编的地方。" },
-    { id:"c002", group:"craft", title:"精品项链的设计逻辑", image:"/images/treasures/t001_standard.jpg", image2:"/images/chronicles/c002b.jpg", image3:"/images/chronicles/c002c_standard.jpg", image4:"/images/chronicles/c002d.jpg", imageLayout:"grid4", excerpt:"自上而下观赏这件 Florenza 项链。视线首先遇到的是巴洛克掐丝心形小吊坠：体量细小，却以立体爪托与涡卷细节预告了整串的主题和工艺密度。视线继续下移，花瓣形中心座以铸造掐丝构成对称的放射骨架，将四重构图秩序带入视野；马耳他十字主吊坠随即展开，以徽章形制确立整串的历史语义重心。圆形宝石与马眼形宝石分布于各节点，深琥珀色调回应了伊特鲁里亚复兴的色彩传统，在维持视觉密度的同时锁定了情绪基调。<br><br>这件项链的设计核心策略，是以历史权威性抵消材料的非贵重属性，同时采用两条手段：以数量与密度压制对材料本身的注意力，以历史风格引导观者关注设计而非材料本身。风格上，它是四套历史传统的有意识融合：文艺复兴风格复兴提供构图骨架，伊特鲁里亚复兴提供工艺语言，维多利亚情感传统引入浪漫向度，巴洛克复兴赋予戏剧张力，四套语汇各自承担不同的设计功能。<br><br>通过将心形处理为承载宝石的建筑构件而非独立的情感符号，庄严与浪漫两种原本相悖的气质在同一构图中取得平衡。铸造掐丝与模制玻璃石决定了工艺的上限，而在自身目标与工艺约束之内，此件以罕见的完成度实现了它的设计意图。" },
   ]
 };
 
 /* Order and headings of the chronicle groups (審美 / 身份 / 權力). */
 const chronicleGroups = [
-  { key:"craft",  label:"审美 · 工艺与副本", statement:"工艺把材料压入秩序，权威由此成为可见之物" },
+  { key:"craft",  label:"审美 · 工艺与挪用", statement:"工艺把材料压入秩序，权威由此成为可见之物" },
   { key:"person", label:"身份 · 人物与微观史", statement:"一件定制的礼服与一纸证书，把个人安置进制度的位置" },
   { key:"power",  label:"权力 · 制度与主权", statement:"勋章的形制、铭文与改面，记录主权的宣称与让渡" },
 ];

diff --git a/assets/site.js b/assets/site.js
@@ -161,10 +161,19 @@ function renderCollection(key) {
     '<div class="featured-grid">' + sorted.map((i, n) => renderCard(i, n, false)).join("") + '</div>';
 }
 
-function renderChronicleCard(a, i) {
-  return '<div class="chronicle-card" style="animation:fadeIn 0.4s ease ' + (i * 0.06) + 's both" onclick="openArticle(\'' + a.id + '\')">' +
-    '<div class="card-info"><div class="card-title">' + a.title + '</div></div>' +
-    (a.image ? '<div class="card-img"><img src="' + a.image + '" alt="' + a.title + '" loading="lazy"></div>' : '') +
+function articleDeck(a) {
+  /* the objects an article is about, as "title · origin · year" */
+  const linked = allItems().filter(i => i.articleLink === a.id).sort((x, y) => parseYear(x.year) - parseYear(y.year));
+  if (linked.length === 0) return '';
+  if (linked.length > 2) return linked.map(i => i.title).join('、');
+  return linked.map(i => [i.title, i.origin, i.year].filter(Boolean).join(' · ')).join('；');
+}
+
+function renderChronicleRow(a) {
+  const deck = articleDeck(a);
+  return '<div class="chronicle-row" onclick="openArticle(\'' + a.id + '\')">' +
+    '<div class="chronicle-row-title">' + a.title + '</div>' +
+    (deck ? '<div class="chronicle-row-deck">' + deck + '</div>' : '') +
     '</div>';
 }
 
@@ -174,7 +183,6 @@ function renderChronicles() {
   const grouped = chronicleGroups.map(g => ({ ...g, items: collection.chronicles.filter(a => a.group === g.key) })).filter(g => g.items.length > 0);
   const ungrouped = collection.chronicles.filter(a => !chronicleGroups.some(g => g.key === a.group));
   if (ungrouped.length > 0) grouped.push({ key: "other", label: "其他", statement: "", items: ungrouped });
-  let n = 0;
   document.getElementById("page").innerHTML =
     '<div class="section-header"><div class="section-title">藏品札记</div></div>' +
     '<div class="type-statement">以器物解码<a class="group-link" href="#group-craft">审美</a>、<a class="group-link" href="#group-person">身份</a>与<a class="group-link" href="#group-power">权力</a></div>' +
@@ -183,7 +191,7 @@ function renderChronicles() {
       '<section class="chronicle-group" id="group-' + g.key + '">' +
         '<div class="chronicle-group-title">' + g.label + '</div>' +
         (g.statement ? '<div class="chronicle-group-statement">' + g.statement + '</div>' : '') +
-        '<div class="chronicle-grid">' + g.items.map(a => renderChronicleCard(a, n++)).join("") + '</div>' +
+        '<div class="chronicle-list">' + g.items.map(a => renderChronicleRow(a)).join("") + '</div>' +
       '</section>'
     ).join("");
 }

diff --git a/assets/site.css b/assets/site.css
@@ -103,11 +103,20 @@ body{font-family:'Noto Sans SC',sans-serif;background:var(--bg-primary);color:va
 .group-link{color:var(--gold);text-decoration:none;border-bottom:1px solid rgba(138,64,56,0.35);transition:border-color 0.2s;}
 .group-link:hover{border-bottom-color:var(--gold);}
 
+/* chronicle lists */
+.chronicle-list{max-width:640px;margin:0 auto;padding:6px 0 4px;}
+.chronicle-row{padding:16px 8px;border-top:1px solid var(--border);cursor:pointer;transition:background 0.2s;}
+.chronicle-row:last-child{border-bottom:1px solid var(--border);}
+.chronicle-row:hover{background:rgba(138,64,56,0.04);}
+.chronicle-row-title{font-family:'Noto Serif SC',serif;font-size:18px;font-weight:600;color:var(--item-title);line-height:1.7;transition:color 0.2s;}
+.chronicle-row:hover .chronicle-row-title{color:var(--gold);}
+.chronicle-row-deck{font-family:'Noto Serif SC',serif;font-size:14px;color:var(--text-muted);margin-top:4px;line-height:1.8;letter-spacing:0.5px;}
+
 /* chronicle groups */
 .chronicle-group{padding-top:28px;scroll-margin-top:72px;}
 .chronicle-group:first-of-type{padding-top:4px;}
 .chronicle-group-title{font-family:'Noto Serif SC',serif;font-size:19px;font-weight:700;color:var(--heading-gold);letter-spacing:3px;text-align:center;}
-.chronicle-group-statement{font-family:'Noto Serif SC',serif;font-size:15px;line-height:2;color:var(--text-muted);text-align:center;margin-top:4px;padding-bottom:14px;}
+.chronicle-group-statement{font-family:'Noto Serif SC',serif;font-size:15px;line-height:2;color:var(--text-muted);text-align:center;margin-top:4px;padding-bottom:10px;}
 .article-item-link-name+.article-item-link-name{margin-top:6px;}
 .article-item-link-name a{color:inherit;text-decoration:none;}
 

diff --git a/tools/standardize.py b/tools/standardize.py
@@ -33,6 +33,8 @@ STRIP_COLOUR = {"r015": ((5, 25), 60, 60)}   # tan overcoat under the trench coa
 NEUTRALIZE = {}                               # id -> strength 0..1
 # Items too close in tone to the warm-white ground are set on their own colour instead.
 BG_OVERRIDE = {"r009": (22, 20, 20), "t005": (22, 20, 20)}   # pale or silver objects sit on black
+# Garments photographed on a hanger: the hook above the shoulders is removed.
+REMOVE_HANGER = {"r009", "r012", "r014"}
 
 
 def items():
@@ -122,6 +124,24 @@ def is_plain_background(im, mask):
     return sel.sum() > 0.6 * border.sum() and float(a[sel].std(axis=0).mean()) < 20
 
 
+def drop_hanger(cut):
+    """Clear the narrow rows above the shoulders (the hanger hook) from a garment's mask."""
+    from scipy import ndimage
+    a = np.asarray(cut).copy(); m = a[..., 3] > 128
+    rows = np.where(m.any(axis=1))[0]
+    if len(rows) == 0: return cut
+    width = m.sum(axis=1).astype(np.float32); full = np.percentile(width[rows], 95)
+    top = rows[0]
+    while top < rows[-1] and width[top] < 0.35 * full: top += 1
+    a[:top, :, 3] = 0
+    # anything still floating above the garment (a hook crossing the collar) goes with it
+    lab, n = ndimage.label(a[..., 3] > 128)
+    if n > 1:
+        keep = 1 + int(np.argmax(ndimage.sum(a[..., 3] > 128, lab, range(1, n + 1))))
+        a[lab != keep, 3] = 0
+    return Image.fromarray(a, "RGBA")
+
+
 def cut_out(im, iid, session):
     from rembg import remove
     import cv2
@@ -138,6 +158,8 @@ def cut_out(im, iid, session):
         keep = ndimage.binary_closing(ndimage.binary_fill_holes(keep), iterations=4)
         a = cv2.GaussianBlur((a * keep).astype(np.uint8), (0, 0), 1.2)
         cut = Image.fromarray(np.dstack([rgb, a]), "RGBA")
+    if iid in REMOVE_HANGER:
+        cut = drop_hanger(cut)
     bbox = cut.getbbox()
     if not bbox: raise RuntimeError(f"{iid}: no object found")
     sub = cut.crop(bbox); alpha = sub.split()[3]
